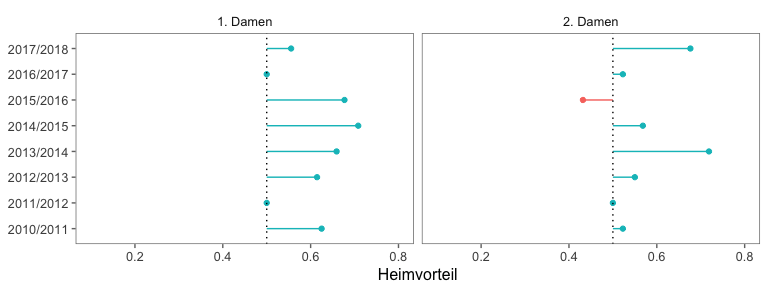
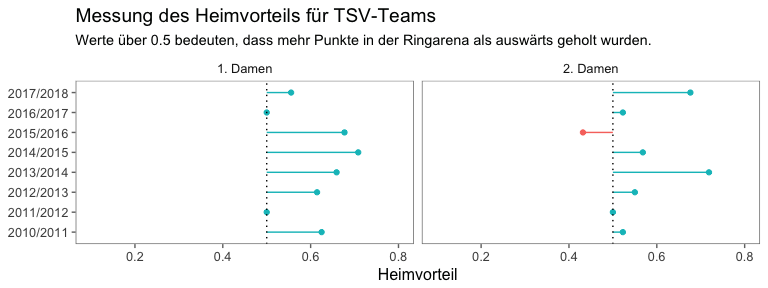
Add captions to plots

diff --git a/ringarena.md b/ringarena.md
@@ -14,7 +14,7 @@ Schauen wir zunächst, ob es überhaupt einen Heimvorteil gibt. Hierfür plotte 
 
 ![](ringarena_files/figure-markdown_github/unnamed-chunk-6-1.png)
 
-Als nächstes schauen wir uns das Ganze pro TSV-Team an. Die kurzen schwarzen Balken auf der X-Achse markieren die Observationen (Werte pro Saison), die Kurve ist eine simple Häufigkeitsverteilung, der lange vertikale Balken markiert den Median. Bei den Herren sind vor allem die Zweit-, Dritt- und Viertvertretung merklich stärker in der Ringarena als in fremden Hallen. Bei der "Ersten" ist der Unterschied deutlich geringer. Die dritte Damenmannschaft wurde übrigens ausgeschlossen, weil sie nicht seit 2010 besteht.
+Als nächstes schauen wir uns das Ganze pro TSV-Team an. Die kurzen schwarzen Balken auf der x-Achse markieren die Observationen (Werte pro Saison), die Kurve ist eine simple Häufigkeitsverteilung, der lange vertikale Balken markiert den Median. Bei den Herren sind vor allem die Zweit-, Dritt- und Viertvertretung merklich stärker in der Ringarena als in fremden Hallen. Bei der "Ersten" ist der Unterschied deutlich geringer. Die dritte Damenmannschaft wurde übrigens ausgeschlossen, weil sie nicht seit 2010 besteht.
 
 ![](ringarena_files/figure-markdown_github/unnamed-chunk-9-1.png)
 
